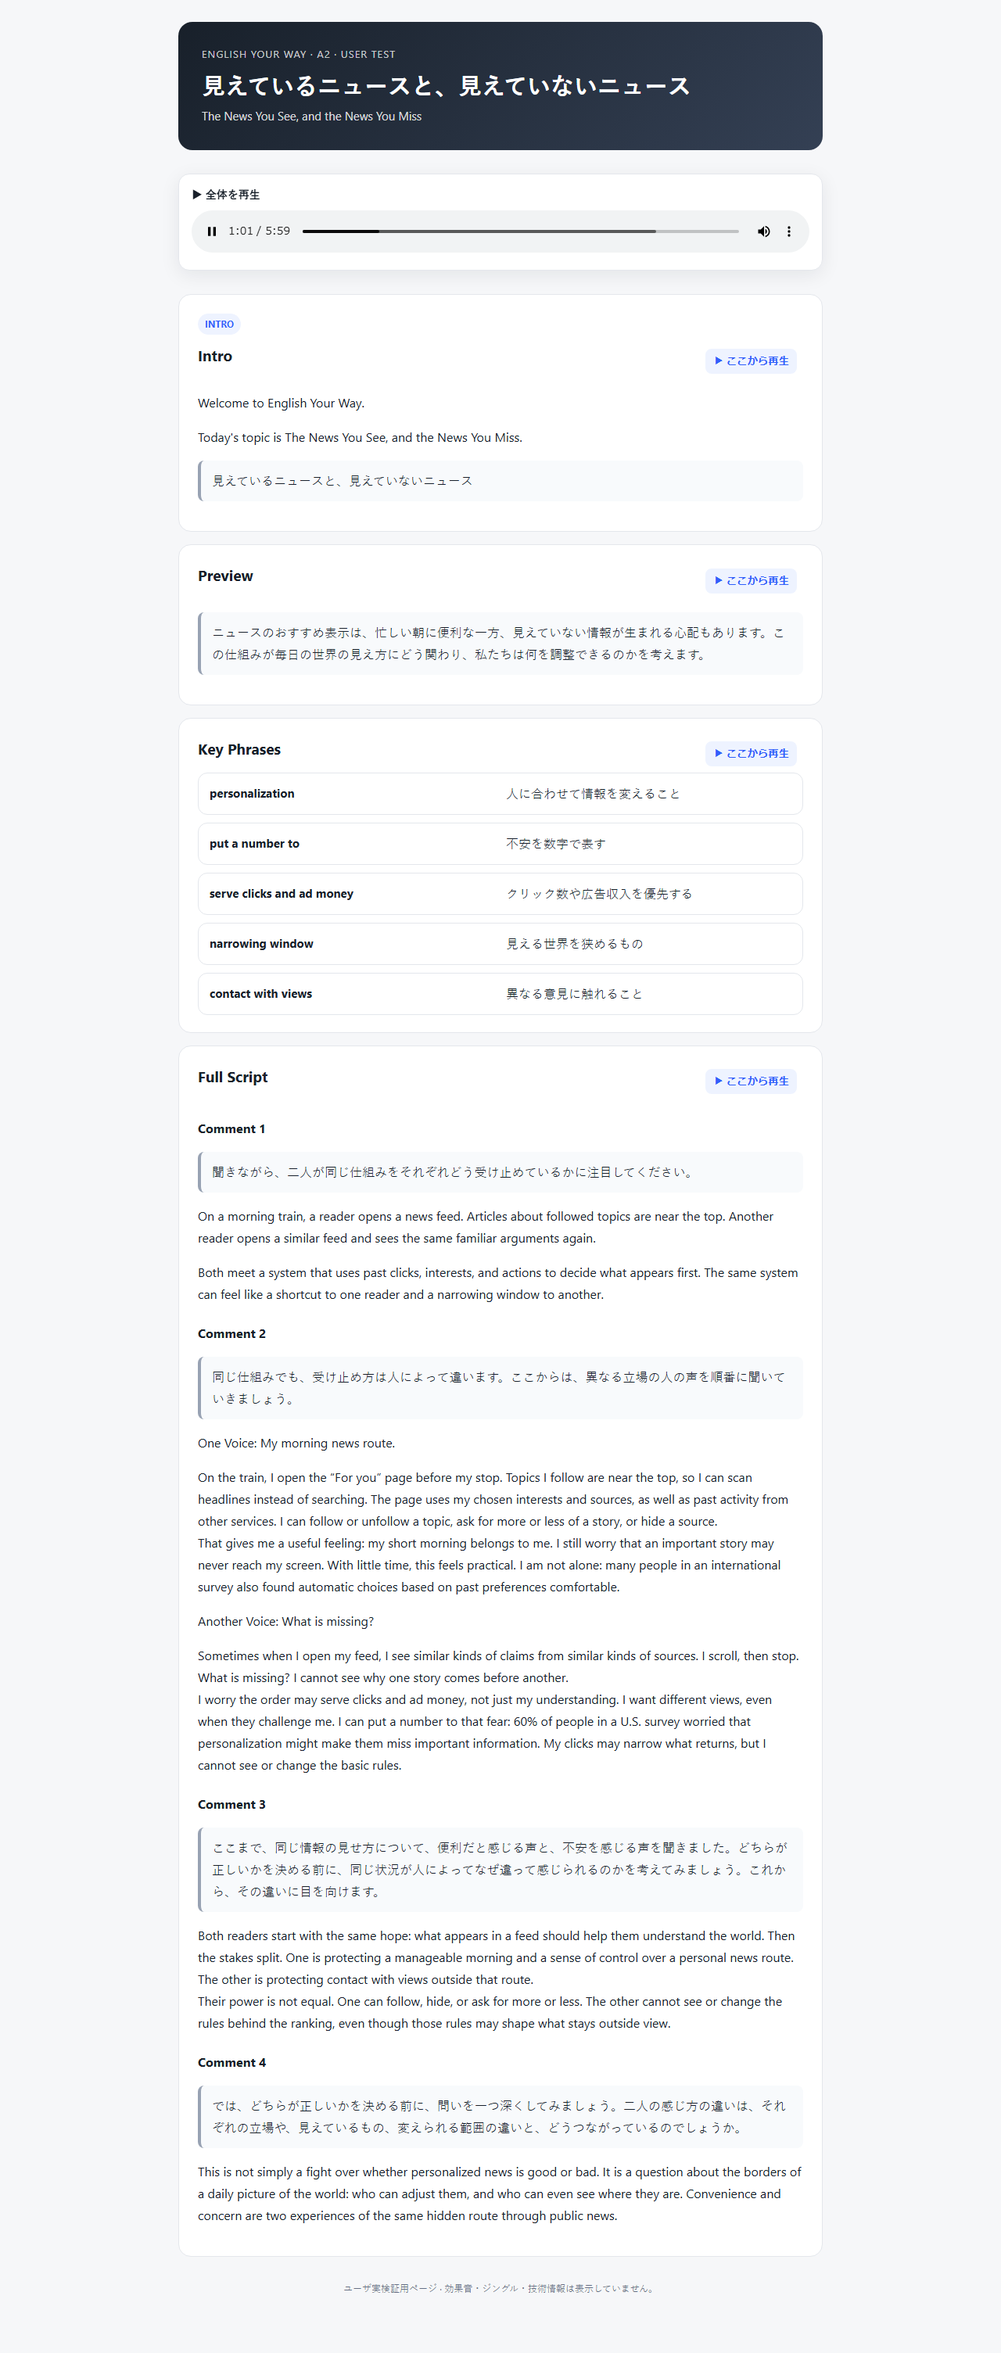
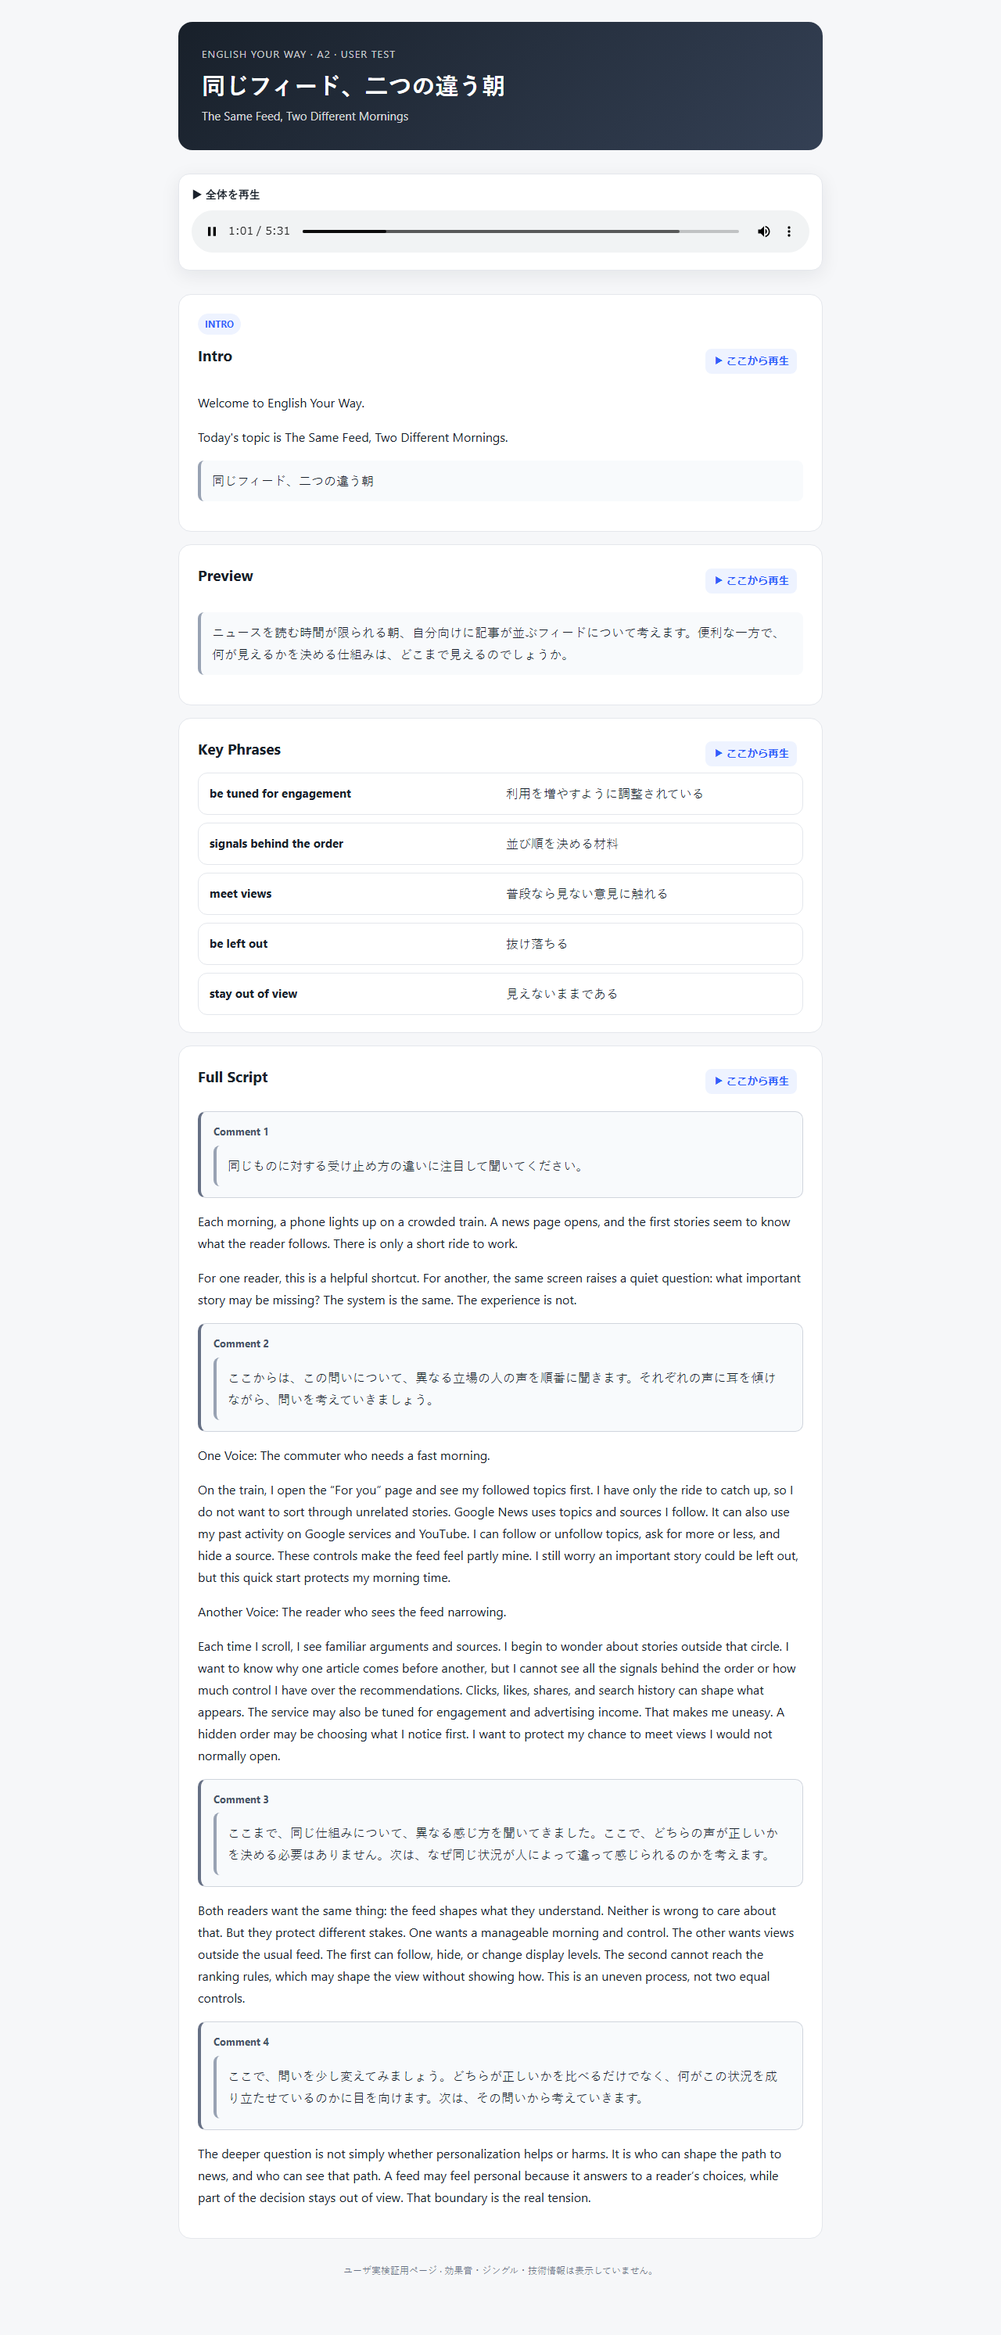
B-FAMILY-VOICES-POSITION-AND-EVIDENCE-SPEC-01: SSOT反映(DECISION_LOG/OPEN-166登録/ARTIFACT_REGISTRY)+E2E evidence更新
- DECISION_LOG.md: 索引+本体エントリ新設
- OPEN_ITEMS.md: OPEN-151に本タスク結果を追記、新規OPEN-166登録
  (Verified Fact Ledgerの内容が時間経過で新しい外部研究と矛盾しうる問題、
  Personalized News B1再生成試行で発見)
- ARTIFACT_REGISTRY.md: Personalized News A2(新版)/B1行を更新
- Personalized News A2新版のPlaywright E2E再生evidence(json/png)を反映

diff --git a/DECISION_LOG.md b/DECISION_LOG.md
@@ -8092,6 +8092,23 @@ RESULT_PACKET_FU03_TREND_NAMING.md`、`docs/pm/RESULT_PACKET_FU03_SPEC_AUDIT.md`
 - Status: B1=`USER_TEST_READY`相当(技術的完成、ユーザー未試聴)。A2=`USER_DECISION_REQUIRED`(Human Review Lock継続、STOP)。
 - 参照: `docs/pm/RESULT_PACKET_NEWS_CONVENIENCE_AI_01.md`「## FIX-01」節、`docs/pm/delegation_log/USER-TEST-NEWS-CONVENIENCE-AI-01-FIX-01.md`。
 
+## B-FAMILY-VOICES-POSITION-AND-EVIDENCE-SPEC-01: Voiceの立場境界(A/C/F)+leak_position_blur+Acceptance Gate正式配線、Personalized News A2再生成でLeakage 0件確認・音声化完了、Personalized News B1再生成はFact Checker FAILでSTOP
+
+- 日付: 2026-09-17
+- 種別: ユーザー正式承認(2026-09-17、`APPROVED_FOR_PRODUCTION`)に基づくProduction wiring。背景は`docs/pm/RESULT_PACKET_VOICES_SPEC_REVIEW_01.md`(Personalized News A2ユーザー試聴NG=Voiceが調査・統計を語る[問題A]、各Voiceの立場が曖昧[問題B]、の原因分析・候補A〜F整理)。採用: 候補A(Voiceは自分の経験・価値観・立場に徹する)、候補C(Voice内数字は本人経験由来の数値のみ許可、survey/report/study等の外部統計をVoice自身の論証材料にしない)、候補F(反対側の中心的懸念は別VoiceまたはTensionに置く、既存Tension「共通前提→分岐点→非対称性」3段構造の趣旨を明文化)、候補E(nuance[自分の立場の中の迷い]は許容、相手側の中心論点は抱え込ませない)。不採用: 候補B(Narrator/Evidenceレイヤー新設)・候補D(1 Voice=1 Primary Positionの恒久ルール化)。
+- **Prompt変更**(`er012_b_family_voices_writer_generic_01.py`、2V/3V共通template両方): 「Evidenceは脇役であること・Voice内の数字は最大1つ」段落を「本人の経験に属する数字のみ」へ更新、新規段落「Voiceは自分の経験・立場に徹すること、相手側の中心的懸念はTensionへ」を追加、Tension役割文言へ「両Voiceの中心的懸念を公平に受け止める場所」という一文を追加、禁止事項まとめへ2行追加(外部統計の論証材料化禁止/相手側中心論点の先取り禁止)、`_voice_card_block_text()`のsupporting_evidence数字許可条件を「本人経験由来の数値が含まれる場合に限る」へ更新。A2側(`main_a2_2v()`が`run_writer_stage_generic(..., instruction=gen_articles.A2_KAI1_INSTRUCTION)`経由で2V共通templateをそのまま使う経路)にも自動的に適用される(A2専用の分岐は無い)。
+- **Validator変更**: `VOICE_LEAKAGE_FIELDS`(2V/3VのVoiceセクションで共有)へ`leak_position_blur`(相手側Voiceが中心的に抱えている懸念・反論を、このVoiceが自分の中心的な主張として代弁していない場合PASS)を追加。`leak_numbers_foreground`の基準文言を「数字は本人の経験に属する数値であること」へ更新。Tensionセクションのfield集合(`TENSION_LEAKAGE_FIELDS_BASE`/`TENSION_LEAKAGE_FIELDS_2V`)は無変更(position blur判定はVoiceセクション限定)。是正メモ(`build_leakage_corrective_note_2v/_3v`)へ「立場境界」優先事項1行を追加。
+- **Acceptance Gate**: `run_pipeline_2v()`/`run_pipeline_3v()`が、MAX_WRITER_ATTEMPTS(3)到達後もAnalytical Leakage Check flagged項目が残存する場合、`final_result["leakage_residual"]=True`+`final_result["status"]="LEAKAGE_RESIDUAL_STOP"`を記録するよう変更。`main_a2_2v()`/`main_b1_2v()`/`main_b1_3v()`のwrite_new_theme stageは既存の`final_result.get("status")=="OK"`判定をそのまま使っているため、この値変更だけで自動的に後続stage(comment/key_phrases/japanese_title/voice_check/tts/assemble/player)へ進まずSTOPする(MAX_ATTEMPTS自体・既存Gate基準は変更なし、手動override無し)。「前例踏襲でPARTIAL扱いとしユーザー試聴へ進める」という従来運用は本Decision以降廃止。
+- **fact_attribution_mode(A')との関係**: 既定OFF据え置き。`FACT_ATTRIBUTION_MODE_DEFAULT`定義箇所(`er012_b_family_editorial_type_registry_01.py`)へ、将来ONにする場合は候補Cとの両立条件(統計を扱うVoiceにのみ限定適用する等)を別途設計する必要がある旨のコメントを追加(現状未設計)。
+- **regression**: `run_project_regression.py`で2897件収集・2894 PASS・既知FAIL3件(`er003_test_p2j_investigate`のテスト件数照合arithmetic、本タスクと無関係)・新規FAIL 0件。`ThreeVoiceByteInvarianceAgainstHeadTests`の`build_focus_module_block_3v`/`build_leakage_schema_3v`/`build_leakage_check_prompt_3v`/`build_leakage_corrective_note_3v`/`run_pipeline_3v`は意図的な変更のためbyte不変性チェック対象から除外し、それぞれ新しい契約テスト(新原則文言の存在確認、`leak_position_blur`がVoiceセクションのみに追加されfield集合が変わらないことの確認、Acceptance Gateのsource確認)へ置換。新規テスト5件追加。
+- **runtime evidence(Personalized News A2、`main_a2_2v()`全stage実行、既存Ledger再利用・Research再実行なし)**: write_new_theme stageでWriter attempt1にてAnalytical Leakage Check**0件PASS**(voice_a/voice_bとも7項目全PASS、`leak_position_blur`含む)、Fact Checker A' verdict=`REVIEW_REQUIRED`(推薦システムの「切り替えられない」という一般化claimの地域・サービス限定不足、既存の複合Voice帰属パターンの範囲内でnon-blocking)、Ledger Deviation Checker=`LEDGER_COMPLIANT`(Local Rewrite cycle 1で1件のLedger外claim["switch the system off"]を検出・自動修正)。新タイトル"The Same Feed, Two Different Mornings"(日本語タイトルは自然な直訳「同じフィード、二つの違う朝」へconfig更新)。comment/key_phrases(`REDUNDANCY_PASS`)/japanese_title/voice_check/tts/assemble/player全stage完走。TTS/ASR: 14 segment全て`OK`(Human Review Lock発生なし)。Assembly: `status=OK`、duration=331.192秒、peak=0.95492、clipping=False。player.html+web export(episode.mp3+segments 35件)完成。Playwright E2E(headless Chromium、rawcdn.githack commit`a54d0201`)で実再生確認: `after_play_4s`(currentTime=3.03秒、paused=false、readyState=4、error=null、duration=331.1915[Assembly実測と一致])、`after_seek`(60秒seek+1.5秒待機でcurrentTime=61.44秒)、Key Phrase表示・英日タイトル表示確認、consoleエラーは既知の無害な広告ブロック1件のみ。cost実測: 本タスク差分¥73.94(累計、writer/comment/key_phrases/japanese_title/voice_check/tts、model_id: TTS=`gemini-2.5-pro-preview-tts`(Aoede/Algieba/Erinome)、Writer/QA=`gpt-5.6-luna`)。
+- **runtime evidence(Personalized News B1、`main_b1_2v()`のwrite_new_theme stage、既存theme module`er014_output/four_type_observation_01/voices/voices_theme_personalized_news_01.py`のTHEME_CONFIG・Ledger再利用)**: 事前offline再評価(新Validatorで既存音声化済み記事[`voices/audio/b1_2v_v2/b1b/article.md`]を判定のみ実行)でvoice_b 6項目FAIL+tension 2項目FAIL(`leak_position_blur`自体はPASS、既存の統計前景化・Discovery構文由来の残存)を確認したため再生成を実施。attempt1でLeakage是正retryが発火(voice_b numbers_foreground/discovery_syntax、tension evidence_subject/discovery_syntax)、是正後のattempt2でFact Checker A'が`FAIL`と判定(Ledger内の記述「短期テストでは政治的態度の測定可能な変化は確認されていない」が、2026-02-18公開の新しいNature論文の知見と矛盾するとWeb Searchで検出。これはVoice立場境界の仕様変更とは無関係な、既存Ledgerの内容鮮度の問題)。既存retry機構どおりFact Checker FAILは即座に`NG_REVIEW_REQUIRED`として記事を確定させず、リトライは追加されない(MAX_ATTEMPTS自体の変更・Gate緩和はしていない)。本タスクの制約「Research再実行なし」によりLedger自体の更新は範囲外のため、ここでSTOP(記事未確定、音声化未実施、既存音声[known flag残存のまま]は無変更のまま維持)。cost実測: ¥12.32。
+- **AI hiring 3V B1/A2 offline再評価**(判定のみ、regenerateなし): B1(`editorial_b_voices_3v_audio_trial_01/b1b/article.md`)は新Validatorで**0件PASS**(`leak_position_blur`含む全項目、仕様レビューが「中リスク」と指摘したOwner Voiceの言及も、自分の立場の中のnuanceとして判定されFAILしなかった)。A2(`user_test_voices_a2_minimal_01/ai_hiring_3v_a2/a2/article.md`)は voice_2(narrator_analysis/discovery_syntax)・voice_3(numbers_foreground/discovery_syntax)・tension(discovery_syntax/evidence_memorable)でFAIL(`leak_position_blur`自体はPASS)。両記事とも再生成は実施していない(判定のみ)。
+- **free_address B1/A2 regression**(新Validatorでの誤検知確認): B1(`editorial_b_family_production_phase1_02/b1b/article.md`)・A2(`editorial_b_voices_a2_free_address_04/a2/article.md`)ともに新Validator(7項目)で**0件FAIL**(誤検知なし、`leak_position_blur`含む)。
+- **並行タスク衝突**: `docs/pm/locks/audio_stage.lock`は音声段階(japanese_title以降)の直前に作成、Personalized News A2完成後に削除。ただしKey Phrase選定stage(text stageと想定していたが実際には内部でMaster Audio Store/Pronunciation Ledgerへの参照・登録を行う実装だった)をlock取得前に実行したため、同時並行していた別タスク(`USER-TEST-NEWS-CONVENIENCE-AI-01-FIX-01`)のcommit(`86cbd93d`)に本タスクの追記分が混在した(共有チェックアウトのため)。差分は追記のみ(`git diff --stat`で確認、削除なし)でデータ破損なし。今後の同種タスクでは「Key Phrase選定stageも音声共有ストアを書きうる」ことをlock対象の事前チェックに追加する必要がある(教訓として記録、恒久ルール化はFable判断)。加えて、本タスクと`USER-TEST-NEWS-CONVENIENCE-AI-01-FIX-01`は同一working tree(`C:\Users\tensh\eigo-radio`)を共有しており、`DECISION_LOG.md`編集時に相手の未commit編集と同時に存在する状態を確認した(相手側も同一事象を自ら報告済み)。Editツールの完全一致置換の性質上、上書き事故は発生しなかったが、SSOT編集の並行衝突リスクは`docs/pm/locks/audio_stage.lock`が対象とする音声共有ストアだけでなくSSOTファイル自体にも及ぶことが判明した(教訓として記録)。
+- Status: `PARTIAL`(Personalized News A2は基盤配線+新原則Prompt+Validator+Acceptance Gate+完全E2Eまで到達、Personalized News B1はFact Checker FAIL[Voice立場境界とは無関係のLedger鮮度問題]でSTOP、AI hiring 3V/free_addressはoffline判定のみ)。必須項目1〜13の充足状況は`docs/pm/RESULT_PACKET_VOICES_SPEC_01.md`10節参照。
+- 参照: `docs/pm/RESULT_PACKET_VOICES_SPEC_01.md`、`docs/pm/RESULT_PACKET_VOICES_SPEC_REVIEW_01.md`、`docs/pm/delegation_log/B-FAMILY-VOICES-POSITION-AND-EVIDENCE-SPEC-01.md`。
+
 ## 参照元
 
 - PM-TOKEN-EFFICIENCY-E1-D1-REMEASUREMENT-01(2026-09-13、¥0): 復元transcriptでsonnet-worker委任Before357件/After33件を100%取得し再測定。Fable判定: E-1=現状効果なし(同一ファイル再読率 中央値33.9%→40.8%)、D-1=弱い改善シグナルあり・評価不足(全文Read率59.9%→47.9%、Read1回あたり文字数▲37%、N小)、G-1=効果なし(元々寄与小)、総合『まだ評価不足』。累積usage中央値430万→532万(+24%)はtool_uses中央値50→68(+36%)の増加と相関+0.93で、タスク複雑化が主因の可能性。After委任文へのE-1/D-1/G-1明記率55%(18/33)はFable側の運用不徹底として是正対象。全文Read率とusageの相関−0.047(Read削減は総消費に直結しない)。施策1(tool_uses削減)/施策2(D-1徹底)のTrial設計はユーザー判断待ち。根拠: `PM-TOKEN-EFFICIENCY-E1-D1-REMEASUREMENT-01_REPORT.md`。

diff --git a/ARTIFACT_REGISTRY.md b/ARTIFACT_REGISTRY.md
@@ -134,7 +134,9 @@ PRODUCTION`)や`editorial_mode="discovery_why"`の正式registry登録を
 | Space Weapons | B1 | 完成(382.98秒、内容・音声無変更。視聴ページComment box表示レイアウトのみ修正) | Audio Validation Gate PASS | **PASS**(2026-09-17、`USER_TEST_READY`、再試聴不要) | `.../space_weapons/b1b/player.html`(同URL形式、`level=B1`、`docs/pm/RESULT_PACKET_CLOSEOUT_136.md`1節) |
 | AI Control | A2 | 完成 | Audio Validation Gate PASS | **PASS**(2026-09-17、`USER_TEST_READY`。ただし情報密度・概念負荷の重大指摘あり→OPEN-164) | `.../ai_control/a2/player.html`(`docs/pm/RESULT_PACKET_CLOSEOUT_136.md`1節) |
 | AI Control | B1 | 完成(RESUME-06でen=表題誤り[A2表題流用]をB1自身の表題へ是正済み) | Audio Validation Gate PASS | **PASS**(2026-09-17、`USER_TEST_READY`。OPEN-164同様の指摘あり) | `.../ai_control/b1b/player.html`(`docs/pm/RESULT_PACKET_CLOSEOUT_136.md`1節) |
-| Personalized News A2 | A2(B-Family新規topic、2V) | 完成(Human Review Lock 2件[見出しASR脱落]をstandard+minimal fallback二段retryで解消し完走) | Audio Validation Gate PASS(Analytical Leakage Check残存flag[voice_a/voice_b、3attempt上限]は既存3V/2V仕様と同型、記事完成はブロックしない) | **NG**(`REJECTED_AS_CURRENT_OUTPUT`、2026-09-17。理由=Voices構造根本問題[VoiceがSurvey/統計/外部Evidenceを引用、立場がぼやける]、個別修正せず仕様見直し中`B-FAMILY-VOICES-POSITION-AND-EVIDENCE-SPEC-REVIEW-01`。実装基盤`main_a2_2v()`配線自体は`PRODUCTION_WIRED`(FIX-01到達)[記事品質と別軸、訂正: PM-CLOSEOUT-CONSOLIDATION-137]) | `.../personalized_news_2v_a2/player.html`(`docs/pm/RESULT_PACKET_CLOSEOUT_136.md`1節) |
+| Personalized News A2(旧版、`REJECTED_AS_CURRENT_OUTPUT`) | A2(B-Family新規topic、2V) | 完成(Human Review Lock 2件[見出しASR脱落]をstandard+minimal fallback二段retryで解消し完走) | Audio Validation Gate PASS(Analytical Leakage Check残存flag[voice_a/voice_b、3attempt上限]は既存3V/2V仕様と同型、記事完成はブロックしない) | **NG**(`REJECTED_AS_CURRENT_OUTPUT`、2026-09-17。理由=Voices構造根本問題[VoiceがSurvey/統計/外部Evidenceを引用、立場がぼやける]。**本行は2026-09-17新版[次行]で置き換えられた旧記事の記録として保持**) | 旧player.html(上書き済み、`docs/pm/RESULT_PACKET_CLOSEOUT_136.md`1節) |
+| Personalized News A2(新版、`B-FAMILY-VOICES-POSITION-AND-EVIDENCE-SPEC-01`再生成) | A2(B-Family新規topic、2V) | 完成(Analytical Leakage Check attempt1で0件PASS[`leak_position_blur`含む全7項目]、TTS/ASR14segment全OK、Human Review Lock発生なし) | Audio Validation Gate PASS(duration=331.192秒、peak=0.95492、clipping=False) | 未試聴(基盤`PRODUCTION_WIRED`のまま、記事内容の正式ユーザーOK判定は再試聴待ち。新題"The Same Feed, Two Different Mornings"/「同じフィード、二つの違う朝」) | `https://rawcdn.githack.com/shimomura055/eigo-radio/a54d0201f667d3fa56d6422ddeaa9fc998b0d49a/user_test/unified.html?src=er012_output/b_family_a2_new_topic_production_01/personalized_news_2v_a2/player.html&level=A2&en=The%20Same%20Feed%2C%20Two%20Different%20Mornings&ja=%E5%90%8C%E3%81%98%E3%83%95%E3%82%A3%E3%83%BC%E3%83%89%E3%80%81%E4%BA%8C%E3%81%A4%E3%81%AE%E9%81%95%E3%81%86%E6%9C%9D`(E2E evidence: `er012_output/b_family_a2_new_topic_production_01/personalized_news_2v_a2/web/e2e_playback_evidence.json`) |
+| Personalized News B1(既知flag残存、`B-FAMILY-VOICES-POSITION-AND-EVIDENCE-SPEC-01`再生成試行) | B1(B-Family、2V) | **未変更**(既存音声`voices/audio/b1_2v_v2/b1b/`のまま。再生成試行はattempt2でFact Checker A' FAILによりSTOPしたため音声化未実施) | Audio Validation Gate PASS(既存音声、無変更) | 未試聴/既存Leakage残存flagのまま(offline再評価でvoice_b 6項目+tension 2項目FAIL、`leak_position_blur`はPASS。再生成試行はLedger鮮度問題[OPEN-166]でSTOP) | 既存player URL: `https://raw.githack.com/shimomura055/eigo-radio/main/er014_output/four_type_observation_01/voices/audio/b1_2v_v2/player.html`(無変更) |
 | Tiny Bags(`USER-TEST-NEWS-LIGHT-TOPIC-01-RESUME-02`) | B1 | 完成(325.734秒、peak=0.73052、clippingなし。`point_one`は"only"5/6attempt脱落によりcanonical微修正[only→just]後1attempt目でNORMALIZED_MATCH) | Audio Validation Gate PASS | 未試聴(技術的完成のみ、E2E再生確認済み) | `https://rawcdn.githack.com/shimomura055/eigo-radio/e858649a/user_test/unified.html?src=er014_output/user_test_news_light_01/tiny_bags/b1b/player.html&level=B1&en=Are%20Tiny%20Bags%20Really%20Back%3F%20Fashion%27s%20Answer%20Comes%20With%20a%20Catch&ja=...`(evidence: `er014_output/user_test_news_light_01/tiny_bags/b1b/e2e/e2e_evidence.json`) |
 | Tiny Bags(`USER-TEST-NEWS-LIGHT-TOPIC-01-RESUME-02`) | A2 | **未完成**(`full_story_part2`のToteme/Kallmeyer、TTS再生成なしでSecondary ASR cascade[Phrase List明示指定]まで実行。Kallmeyerは解決、Totemeは5系統全ASRで未解決のためHuman Review確認ページへ) | Audio Validation Gateブロック中(未解消のため未実行) | Human Review待ち(発音確認ページ) | 確認ページ: `https://rawcdn.githack.com/shimomura055/eigo-radio/e858649a/user_test/human_review.html?src=er014_output/user_test_news_light_01/tiny_bags/a2/human_review/full_story_part2_review.json`(evidence: `.../a2/human_review/e2e_evidence.json`) |
 | Convenience AI(`USER-TEST-NEWS-CONVENIENCE-AI-01-FIX-01`) | A2 | **未完成**(FIX-01で記事の時制・事実誤りは是正済み[LEDGER_COMPLIANT維持・Fact Checker時制指摘解消]。`point_two`はPronunciation Ledger登録[Ledger正式経路]後の再TTSで商品名"Oimo no Canele"自体はSecondary ASR[Phrase List]が完全一致で書き起こすようになったが、別箇所"AI while"→"a I Well"の新規ASR不一致[`TRUE_CONTENT_MISMATCH`]によりcascade全体は`ASR_VALIDATION_UNCERTAIN`のまま、Human Review Lock継続) | Audio Validation Gateブロック中(未解消のため未実行) | Human Review待ち(確認ページ、内容更新済み) | 確認ページ(FIX-01更新版): `https://rawcdn.githack.com/shimomura055/eigo-radio/86cbd93d/user_test/human_review.html?src=er014_output/user_test_news_convenience_ai_01/convenience_ai/a2/human_review/point_two_review.json`(evidence: `.../a2/human_review/e2e_evidence_fix01.json`) |
